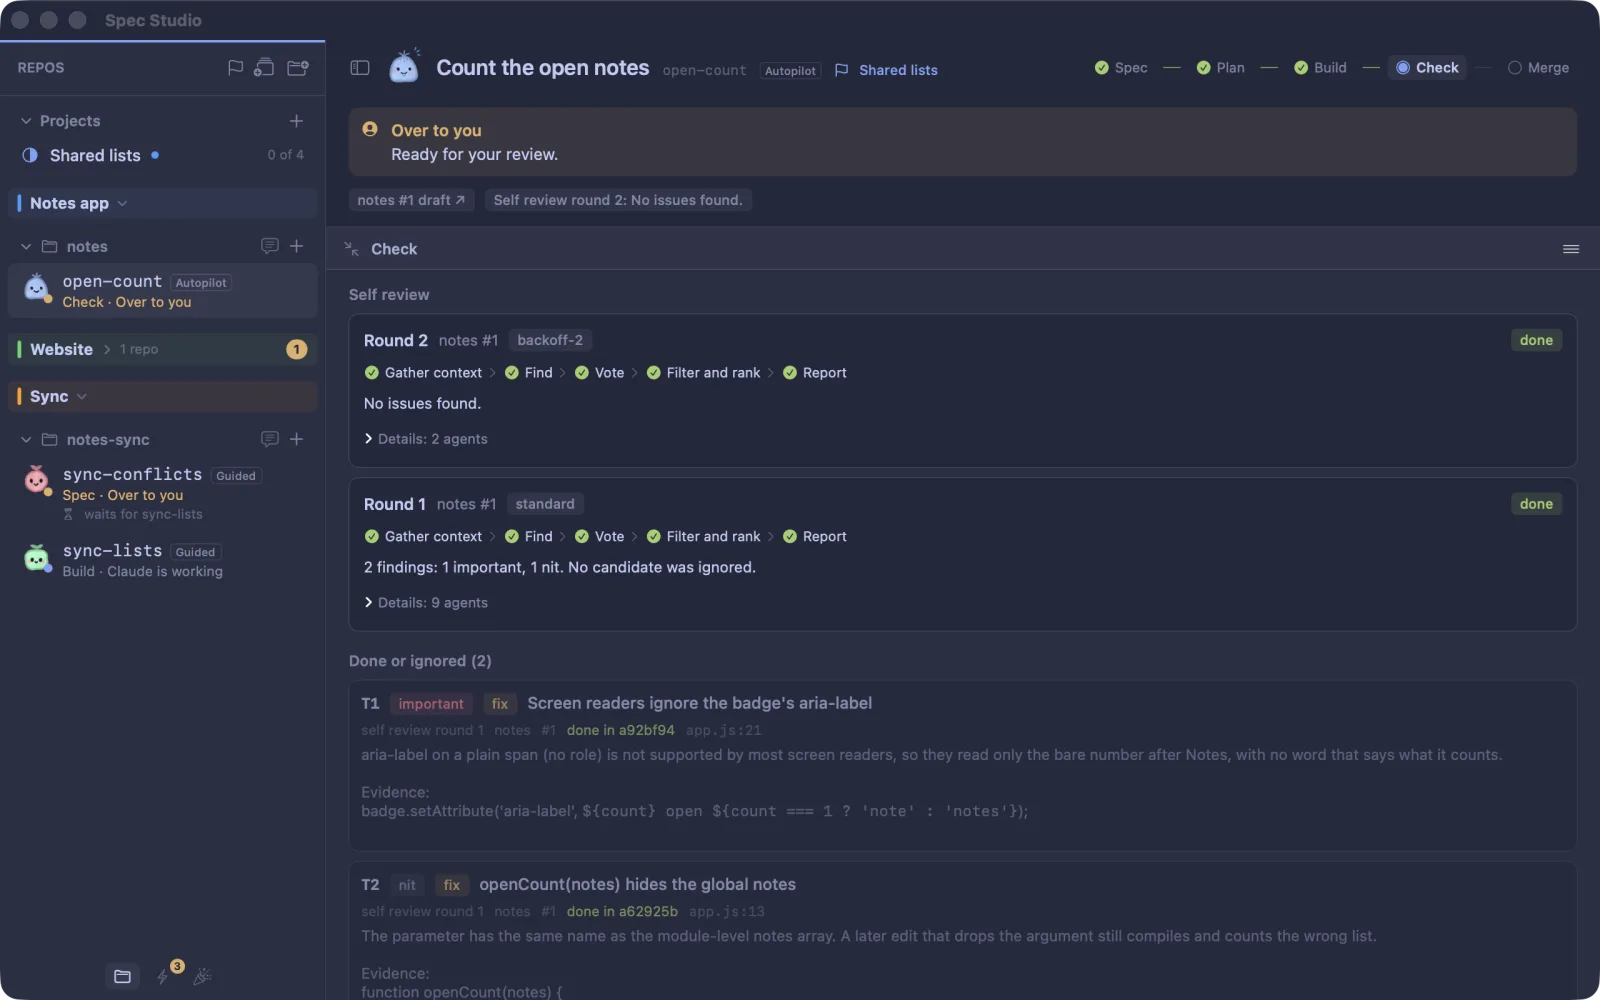
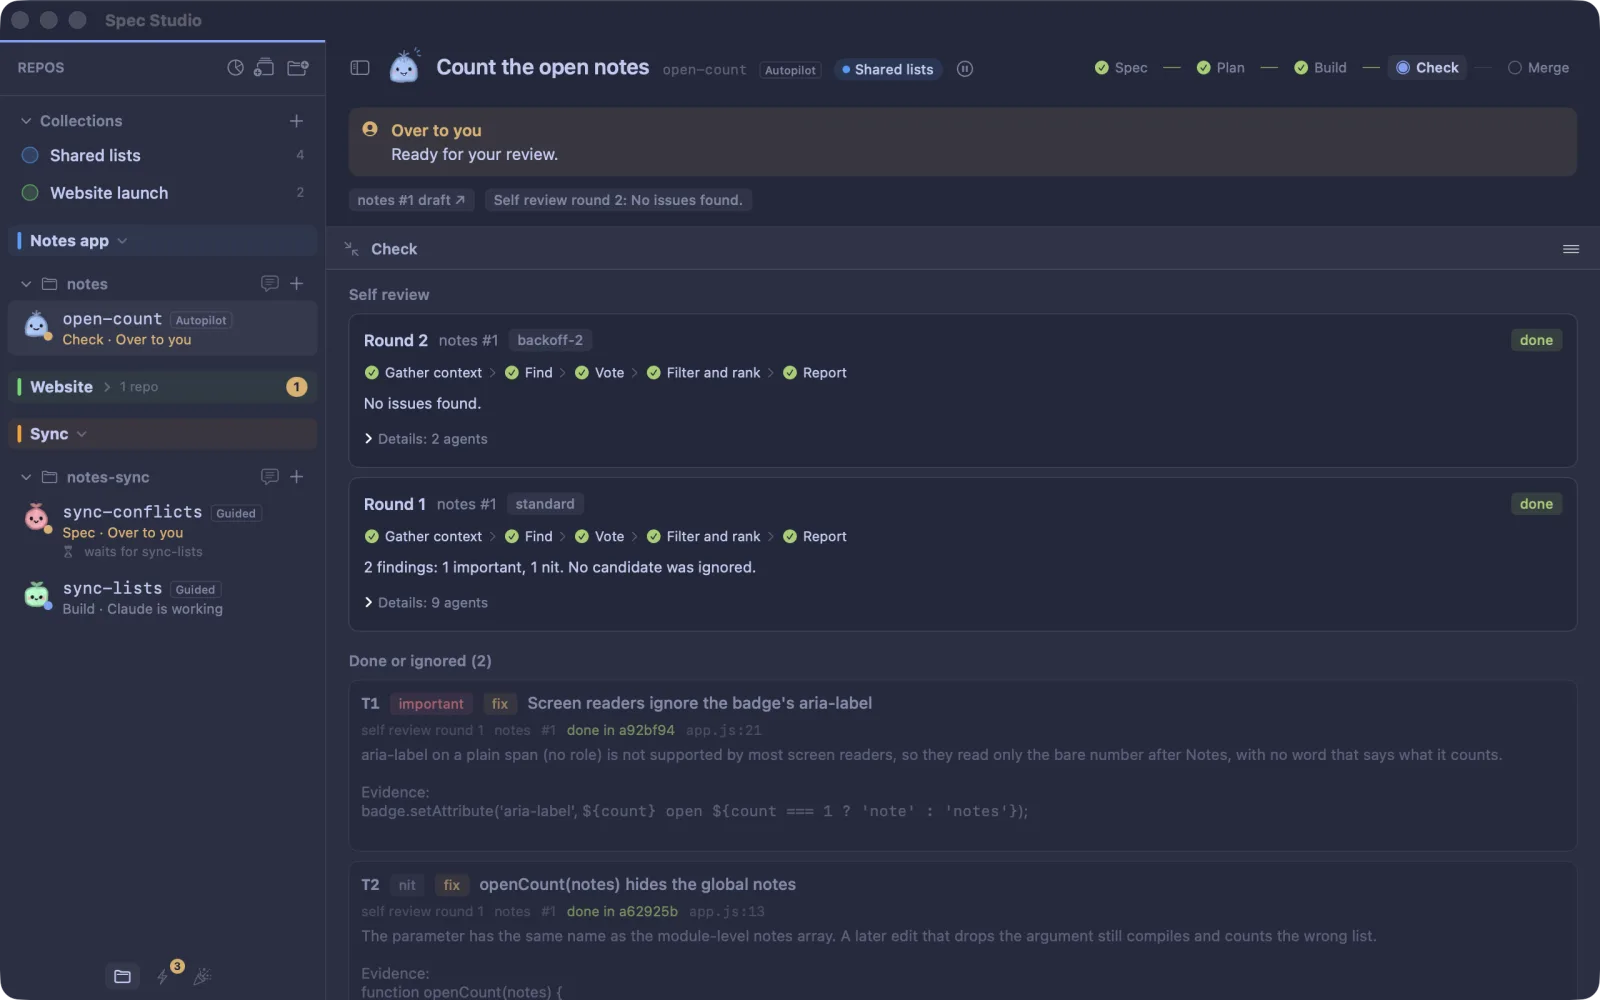
Fix: new stills of the sidebar with the Collections section, light and dark (round-1/F2)

diff --git a/src/guides/app.md b/src/guides/app.md
@@ -75,7 +75,7 @@ An **area** is a group of repos, for example all the repos of one client. A repo
 - When you add a repo, Spec Studio can suggest an area: an area with the same GitHub owner, the same parent folder, or shared specs. Click **Add** or **Dismiss**. Spec Studio never moves a repo by itself.
 - The Priority panel can show one area only. A notification names the area of its spec.
 
-![The Repos panel with three areas: Notes app in blue, Website in green and Sync in orange. Each area shows its repos and their specs. The spec sync-conflicts shows "waits for sync-lists".](shot:areas-sidebar "The Repos panel with three areas. Each area has its color, and its repos and specs are under it.")
+![The Repos panel: the Collections section at the top with Shared lists (4 specs) and Website launch (2 specs), each with its progress pie, then three areas: Notes app in blue, Website in green and Sync in orange. Each area shows its repos and their specs. The spec sync-conflicts shows "waits for sync-lists".](shot:areas-sidebar "The Repos panel: two collections at the top, then three areas. Each area has its color, and its repos and specs are under it.")
 
 A **collection** is a set of specs from any repo and any area, open or shipped. A spec can be in many collections. A collection has a name, a color, an optional description and an optional link, for example to a Linear project. It has no status and no dates: it is not a second tracker.
 
